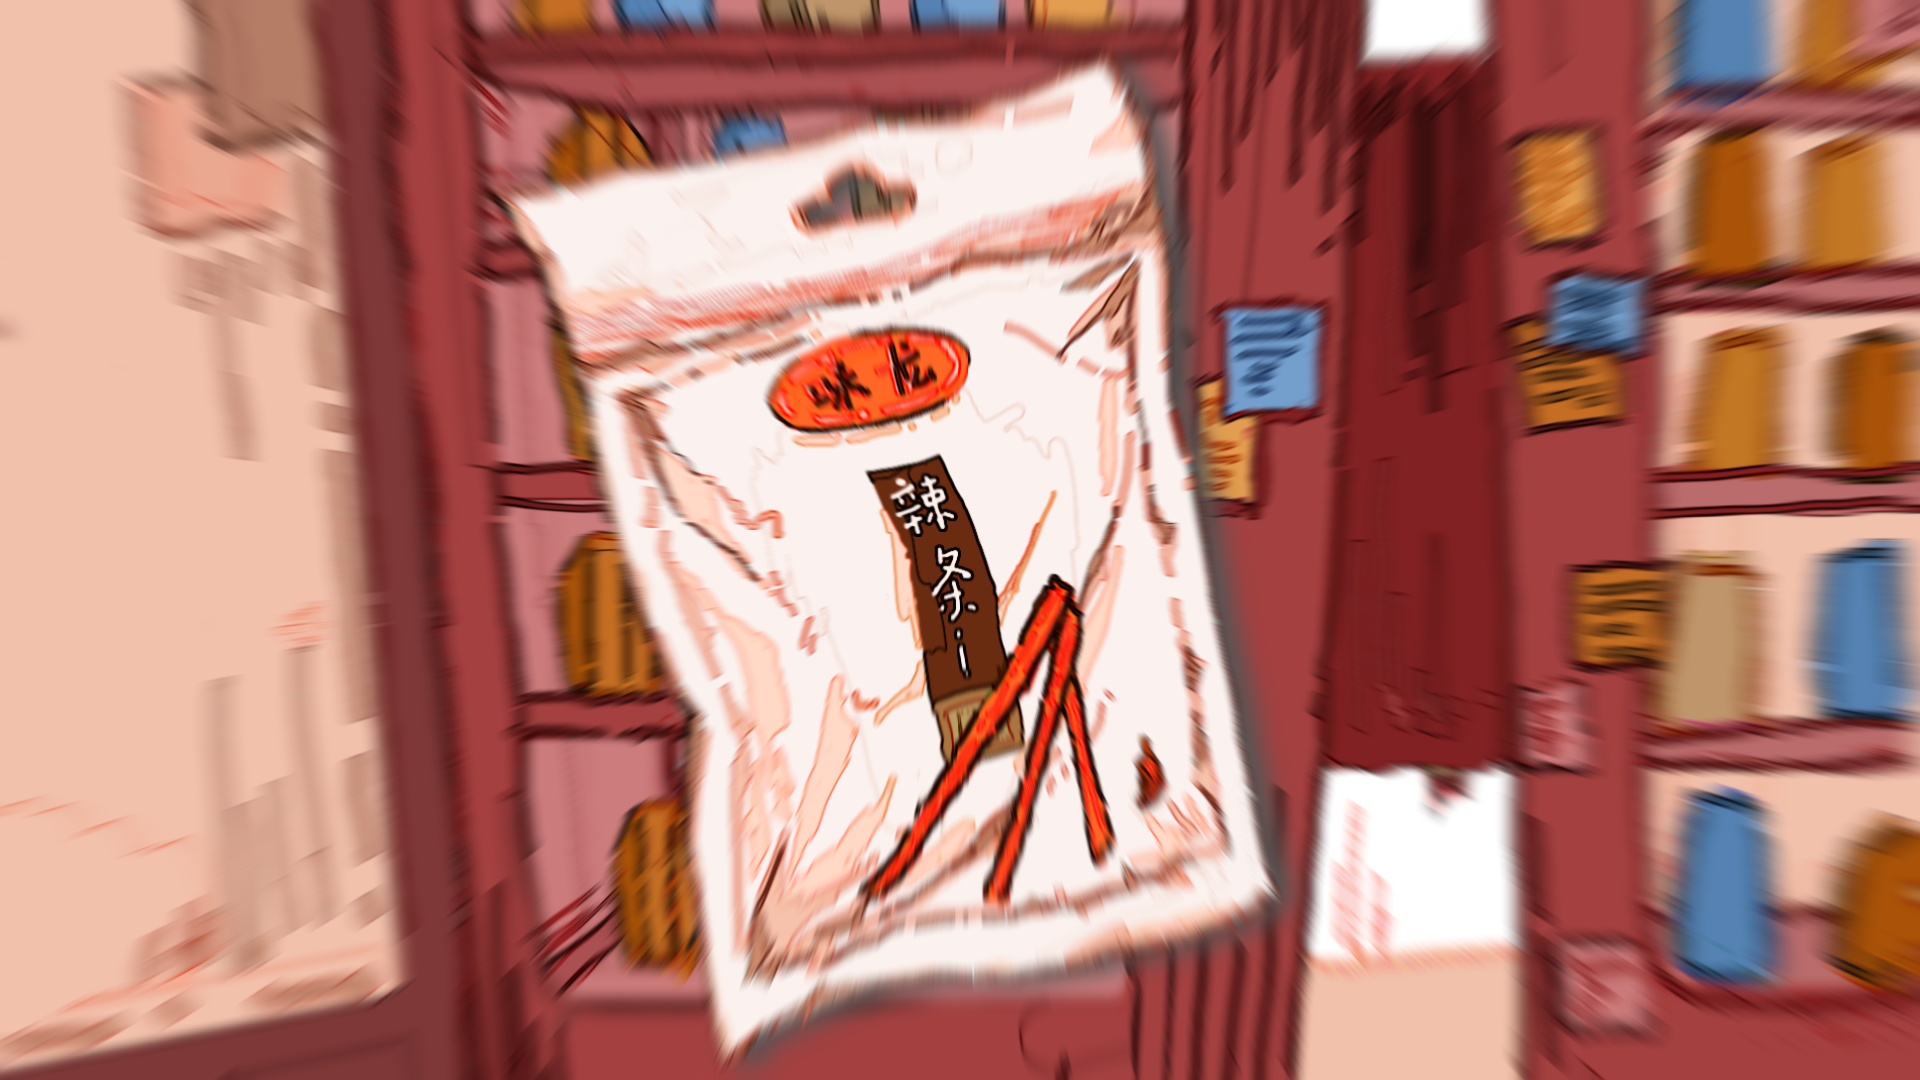
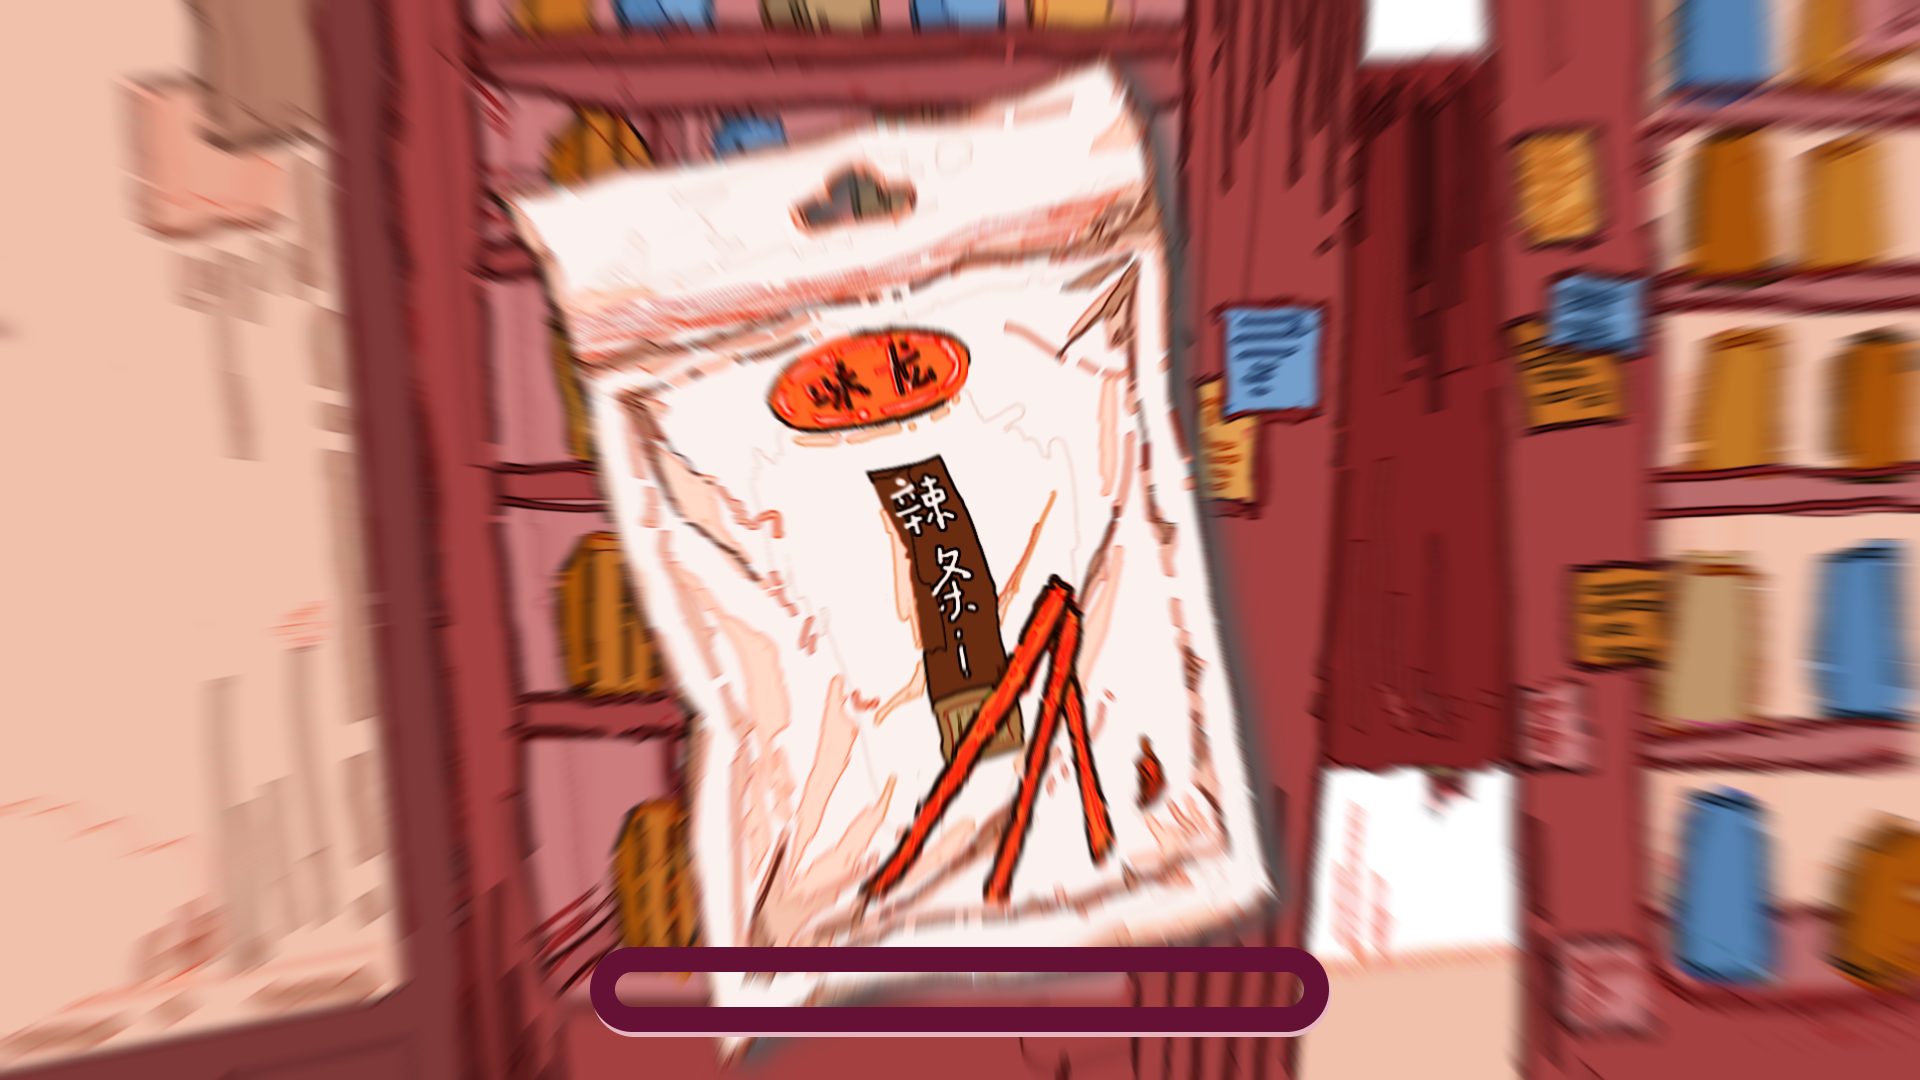
辣条

Changed region(s): [[0.2812, 0.8556, 0.6875, 0.9778]]

diff --git a/code/Scene2_1.js b/code/Scene2_1.js
@@ -27,9 +27,6 @@ export default class Scene2_1 extends Phaser.Scene {
 
         // 创建进度条
         const progressBar = this.add.graphics();
-        const progressBox = this.add.graphics();
-        progressBox.fillStyle(0x222222, 0.8);
-        progressBox.fillRect(620, 900, 600, 50);
 
         let progress = 0;
         let progressEvent;
@@ -41,12 +38,20 @@ export default class Scene2_1 extends Phaser.Scene {
                     progress += 0.03;
                     progressBar.clear();
                     progressBar.fillStyle(0x651035, 1);
-                    progressBar.fillRect(625, 905, 590 * progress, 40);
+                    progressBar.fillRect(615, 960, 690 * progress, 58);
 
                     if (progress >= 1) {
-                        progressBar.clear();
-                        this.add.image(0, 0, 'lt1').setOrigin(0, 0);
+
+                        progressBar.fillRect(615, 960, 690, 58);
                         progressEvent.remove();
+                        zon1.removeInteractive();
+                        this.time.delayedCall(200, () => {
+
+                            this.add.image(0, 0, 'lt1').setOrigin(0, 0);
+                            this.input.once('pointerdown', () => {
+                                this.scene.start('Scene2');
+                            });
+                        });
                     }
                 },
                 loop: true

diff --git a/code/main.js b/code/main.js
@@ -18,7 +18,7 @@ const config = {
         mode: Phaser.Scale.FIT,
         autoCenter: Phaser.Scale.CENTER_BOTH
     },
-    scene: [Menu, MainScene, Scene1, Scene1_1, Scene2, Scene2_1, Scene3, Pt, Setting],
+    scene: [Menu, MainScene, Scene1, Scene1_1, Scene2, Scene2_1, Scene3, Scene3_1, Pt, Setting],
     physics: {
         default: 'arcade',
         arcade: {

diff --git a/code/Scene3.js b/code/Scene3.js
@@ -96,5 +96,10 @@ export default class Scene3 extends Phaser.Scene {
                 ptsum.setText(`拼图收集进度: ${sum}/9`);
             });
         }
+
+        const zone1 = this.add.zone(0, 627, 222, 121).setOrigin(0, 0).setInteractive();
+        zone1.on('pointerdown', () => {
+            this.scene.start('Scene3_1');
+        });
     }
 }

diff --git a/code/Scene3_1.js b/code/Scene3_1.js
@@ -2,7 +2,7 @@
 export default class Scene3 extends Phaser.Scene {
 
     constructor() {
-        super({ key: 'Scene2_1' });
+        super({ key: 'Scene3_1' });
     }
 
     preload() {
